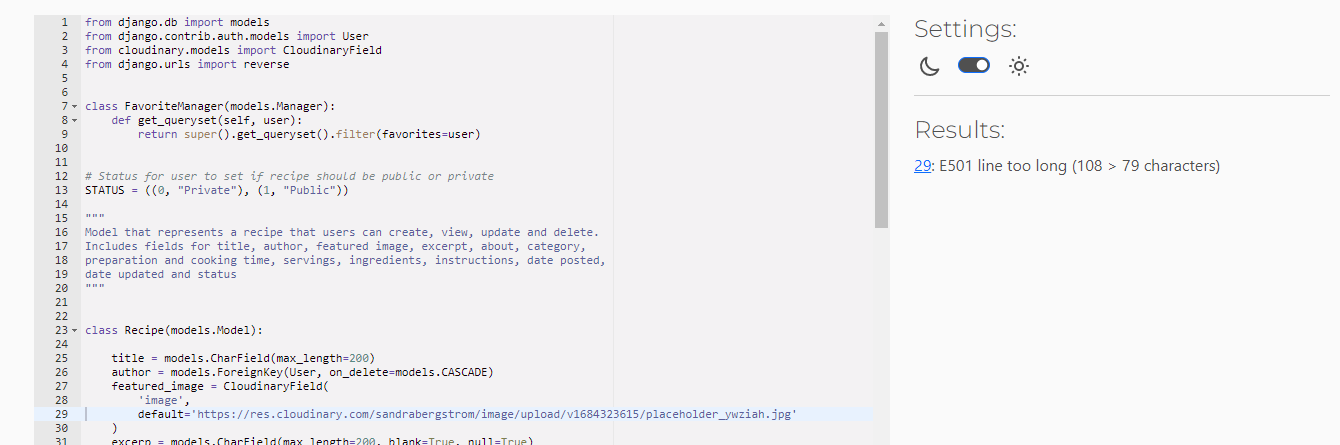
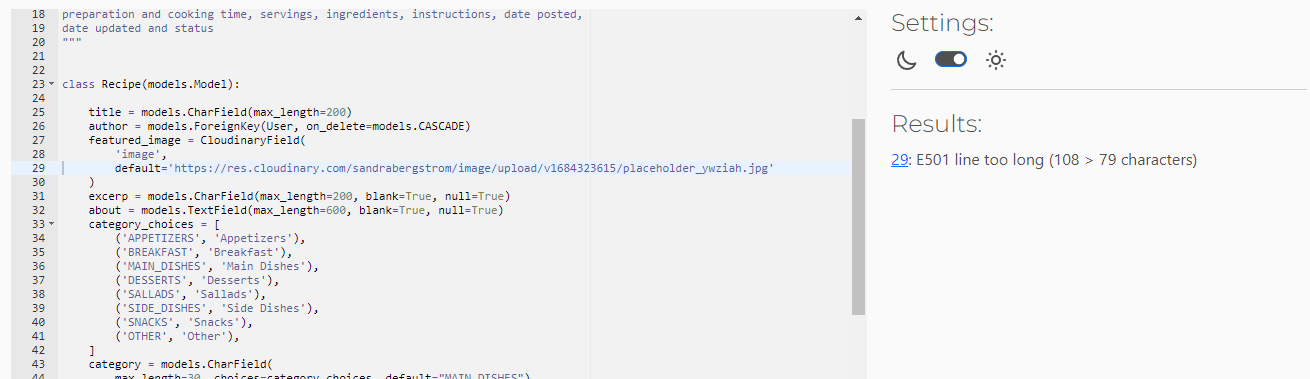
Test PEP8

Changed region(s): [[0.0, 0.029, 0.6107, 1.0], [0.6412, 0.029, 0.916, 0.8417]]

diff --git a/users/views.py b/users/views.py
@@ -1,4 +1,5 @@
-# Register view and profile view is based on the "Python Django Tutorial: Full-Featured Web App" tutorial by Corey Schafer
+# Register view and profile view is based on the
+# "Python Django Tutorial: Full-Featured Web App" tutorial by Corey Schafer
 # Tutorial: https://youtu.be/UmljXZIypDc
 # Snippets adapted from the tutorial with modifications
 
@@ -11,6 +12,7 @@ from django.db.models import Q
 from .forms import UserRegisterForm, UserUpdateForm, ProfileUpdateForm
 from cookbook.models import Recipe
 
+
 # registtration view for new user
 def register(request):
     if request.method == 'POST':
@@ -19,9 +21,10 @@ def register(request):
             form.save()
             username = form.cleaned_data.get('username')
             messages.success(
-                request, 
-                f'Welcome { username }! Your account was successfully created! Please log in!'
-                )
+                request,
+                f'Welcome { username }! Your account was successfully '
+                f'/created! Please log in!'
+            )
             return redirect('login')
     else:
         form = UserRegisterForm()
@@ -33,16 +36,17 @@ def register(request):
 def profile(request):
     if request.method == 'POST':
         user_form = UserUpdateForm(request.POST, instance=request.user)
-        profile_form = ProfileUpdateForm(request.POST, request.FILES, instance=request.user.profile)
+        profile_form = ProfileUpdateForm(
+            request.POST, request.FILES, instance=request.user.profile)
 
         if user_form.is_valid() and profile_form.is_valid():
             user_form.save()
             profile_form.save()
 
             messages.success(
-                request, 
+                request,
                 f'Your account has been successfully updated!'
-                )
+            )
             return redirect('profile')
     else:
         user_form = UserUpdateForm(instance=request.user)
@@ -51,13 +55,13 @@ def profile(request):
     context = {
         'user_form': user_form,
         'profile_form': profile_form
-        
+
     }
     return render(request, 'users/profile.html', context)
 
 
-# view to filter favorite field to see if user id is there or not. If 
-# the user id is there the user can remove from its favorites. If the 
+# view to filter favorite field to see if user id is there or not. If
+# the user id is there the user can remove from its favorites. If the
 # user id isn't there the user can add to favorites.
 @login_required
 def favorite_add(request, id):
@@ -65,17 +69,17 @@ def favorite_add(request, id):
     if recipe.favorites.filter(id=request.user.id).exists():
         recipe.favorites.remove(request.user)
 
-        messages.warning (
-                request, 
-                f'This recipe was removed from your favorites!'
-                )
+        messages.warning(
+            request,
+            f'This recipe was removed from your favorites!'
+        )
     else:
         recipe.favorites.add(request.user)
 
         messages.success(
-                request, 
-                f'This recipe was added to your favorites!'
-                )
+            request,
+            f'This recipe was added to your favorites!'
+        )
     # redirect to the current page
     return redirect(request.META.get('HTTP_REFERER'))
 
@@ -87,6 +91,7 @@ def favorite_list(request):
     return render(request, 'users/favorites.html', {'new': new})
 
 
+# view for the users added recipes
 @login_required
 def my_recipe_list(request):
     added = Recipe.objects.filter(author=request.user).order_by('-date_posted')
@@ -94,11 +99,3 @@ def my_recipe_list(request):
         'added': added
     }
     return render(request, 'users/myrecipes.html', context)
-
-
-# class MyRecipeListView(LoginRequiredMixin, ListView):
-#     model = Recipe
-#     template_name = 'users/myrecipes.html'
-#     context_object_name = 'added'
-#     ordering = ['-date_posted']
-#     paginate_by = 9

diff --git a/cookbook/views.py b/cookbook/views.py
@@ -1,4 +1,5 @@
-# Based on the "Python Django Tutorial: Full-Featured Web App" tutorial by Corey Schafer
+# Based on the "Python Django Tutorial: Full-Featured Web App"
+# by Corey Schafer
 # Tutorial: https://youtu.be/UmljXZIypDc
 # Snippet adapted from the tutorial with modifications
 
@@ -18,11 +19,13 @@ from django.views.generic import (
 from django.contrib.auth.mixins import LoginRequiredMixin, UserPassesTestMixin
 from django.db.models import Q
 
+
 def index(request):
     if request.user.is_authenticated:
-        return redirect ('cookbook-home')
+        return redirect('cookbook-home')
     else:
         return render(request, 'index.html')
+
 
 # this class will list all recipes with the latest
 # recipe listed first
@@ -87,8 +90,9 @@ class RecipeCreateView(LoginRequiredMixin, CreateView):
         'status',
     ]
 
-    # If the form is valid it will first check if user is logged in and if so
-    # the user will be set as the author. If not it will redirect to the login page.
+    # If the form is valid it will first check if user is logged in
+    # and if so the user will be set as the author. If not it will
+    # redirect to the login page.
     def form_valid(self, form):
         if self.request.user.is_authenticated:
             form.instance.author = self.request.user
@@ -117,13 +121,14 @@ class RecipeUpdateView(LoginRequiredMixin, UserPassesTestMixin, UpdateView):
     ]
 
     # If the form is valid it will first check if user is logged in and if so
-    # the user will be set as the author. If not it will redirect to the login page.
+    # the user will be set as the author. If not it will redirect to
+    # the login page.
     def form_valid(self, form):
         if self.request.user.is_authenticated:
             form.instance.author = self.request.user
             title = form.instance.title
             messages.success(
-                self.request, 
+                self.request,
                 f'{ title } has been successfully updated!'
                 )
             return super().form_valid(form)
@@ -152,9 +157,8 @@ class RecipeDeleteView(LoginRequiredMixin, UserPassesTestMixin, DeleteView):
             return True
         return False
 
-# Shows the about page 
+
+# Shows the about page
 class AboutView(TemplateView):
     template_name = 'cookbook/about.html'
     extra_content = {'title': 'About'}
-
-    

diff --git a/users/models.py b/users/models.py
@@ -4,17 +4,18 @@ from cloudinary.models import CloudinaryField
 from cookbook.models import Recipe
 
 
-
 """
 Model that extends the user model and adds fields image,
 food relation and country.
 """
+
+
 class Profile(models.Model):
     user = models.OneToOneField(User, on_delete=models.CASCADE)
     image = CloudinaryField(
-        'image', 
+        'image',
         default='https://res.cloudinary.com/sandrabergstrom/image/upload/v1684322604/user_zyrx8b.png'
-        )
+    )
     food_relation_choices = [
         ('CHEF', 'Chef'),
         ('NUTRITIONIST', 'Nutritionist'),
@@ -26,22 +27,23 @@ class Profile(models.Model):
         ('OTHER', 'Other'),
     ]
     food_relation = models.CharField(
-        max_length=30, 
-        choices=food_relation_choices, 
+        max_length=30,
+        choices=food_relation_choices,
         default='HOME_COOK'
-        )
+    )
     country = models.CharField(
-        max_length=200, 
+        max_length=200,
         default='Citizen of the world'
-        )
+    )
 
     def __str__(self):
-        return f'{self.user.first_name} {self.user.last_name}, {self.get_food_relation_display()}'
+        return f'{self.user.first_name} {self.user.last_name}, ' \
+           f'{self.get_food_relation_display()}'
 
 
 class Comment(models.Model):
     recipe = models.ForeignKey(Recipe, on_delete=models.CASCADE,
-                             related_name="comments")
+                               related_name="comments")
     name = models.CharField(max_length=80)
     email = models.EmailField()
     body = models.TextField()

diff --git a/users/forms.py b/users/forms.py
@@ -1,4 +1,5 @@
-# Based on the "Python Django Tutorial: Full-Featured Web App" tutorial by Corey Schafer
+# Based on the "Python Django Tutorial: Full-Featured Web App"
+# by Corey Schafer
 # Tutorial: https://youtu.be/UmljXZIypDc
 # Snippet adapted from the tutorial with modifications
 
@@ -15,7 +16,14 @@ class UserRegisterForm(UserCreationForm):
 
     class Meta:
         model = User
-        fields = ['username','first_name', 'last_name', 'email', 'password1', 'password2']
+        fields = [
+            'username',
+            'first_name',
+            'last_name',
+            'email',
+            'password1',
+            'password2'
+            ]
 
 
 # update form that user finds on profile page
@@ -24,7 +32,7 @@ class UserUpdateForm(forms.ModelForm):
 
     class Meta:
         model = User
-        fields = ['username','first_name', 'last_name', 'email']
+        fields = ['username', 'first_name', 'last_name', 'email']
 
 
 # extended update form on profile page
@@ -32,7 +40,7 @@ class ProfileUpdateForm(forms.ModelForm):
     class Meta:
         model = Profile
         fields = ['image', 'food_relation', 'country']
-        
+
 
 class CommentForm(forms.ModelForm):
     class Meta:

diff --git a/users/signals.py b/users/signals.py
@@ -3,6 +3,7 @@ from django.contrib.auth.models import User
 from django.dispatch import receiver
 from .models import Profile
 
+
 # creates a new profile when user is created
 @receiver(post_save, sender=User)
 def create_profile(sender, instance, created, **kwargs):
@@ -13,4 +14,4 @@ def create_profile(sender, instance, created, **kwargs):
 # saves the connected profile when user is saved
 @receiver(post_save, sender=User)
 def save_profile(sender, instance, **kwargs):
-   instance.profile.save()
+    instance.profile.save()

diff --git a/recipecollective/settings.py b/recipecollective/settings.py
@@ -81,20 +81,8 @@ TEMPLATES = [
 
 WSGI_APPLICATION = 'recipecollective.wsgi.application'
 
-
-# Database
-# https://docs.djangoproject.com/en/3.2/ref/settings/#databases
-
-# DATABASES = {
-#     'default': {
-#         'ENGINE': 'django.db.backends.sqlite3',
-#         'NAME': BASE_DIR / 'db.sqlite3',
-#     }
-# }
-
-
 DATABASES = {
-   'default': 
+   'default':
    dj_database_url.parse(os.environ.get("DATABASE_URL"))
 }
 

diff --git a/README.md b/README.md
@@ -333,7 +333,8 @@ Delete recipe
 ### Validation
 
 #### HTML Validation
-The W3C Markup Validation Service was used to validate the HTML of the website. All pages pass with no errors no warnings to show.
+W3C Markup Validation is a service provided by the W3C that allows you to validate your HTML code against the official specifications. It checks for syntax errors, improper tag usage, and other issues that may affect the structure and semantics of your web pages. Validating your HTML code with W3C Markup Validation helps ensure that your pages are well-formed and adhere to web standards
+
 <details><summary>Index</summary>
 <img src="#">
 </details>
@@ -357,7 +358,7 @@ The W3C Markup Validation Service was used to validate the HTML of the website. 
 </details>
 
 #### CSS Validation
-The W3C Jigsaw CSS Validation Service was used to validate the CSS of the website.
+W3C Jigsaw is a tool provided by the World Wide Web Consortium (W3C) that allows you to validate and check the correctness of your HTML and CSS code. It helps ensure that your web pages comply with the standards set by the W3C, promoting interoperability and accessibility.
 
 | **Tested** | **Result** | **Validation Result** |
 | ----------- | ----------- | ----------- |
@@ -366,11 +367,23 @@ The W3C Jigsaw CSS Validation Service was used to validate the CSS of the websit
 |||
 
 #### PEP8 
+PEP 8 is a style guide for writing Python code to ensure consistency and readability. It provides guidelines on how to format code, naming conventions for variables and functions, and other best practices. Following PEP 8 helps to improve code quality, readability, and maintainability.
+
+The settings file had one URL that was too long, while the other lines exceeding the recommended length were automatically generated by Django.All other files had no errors and were clear of any issues.
+
+Note: The specific details and validation results for each file can be viewed by expanding the corresponding sections.
 
 
 | **Tested** | **Result** | **Validation Result** |
 | ----------- | ----------- | ----------- |
+| settings | One URL was too long, while the other lines that exceeded the recommended length were automatically generated by Django. |<details><summary>Result</summary>![Result](/docs/validation/pep8/settings.png)</details>|
+| views | All clear, no errors found |<details><summary>Result</summary>![Result](/docs/validation/pep8/views.png)</details>|
 |cookbook/models | 29: E501 line too long (108 > 79 characters) - URL for default image |<details><summary>Result</summary>![Result](/docs/validation/pep8/cookbook-models.png)</details>|
+|cookbook/views | All clear, no errors found |<details><summary>Result</summary>![Result](/docs/validation/pep8/cookbook-views.png)</details>|
+|users/forms | All clear, no errors found |<details><summary>Result</summary>![Result](/docs/validation/pep8/users-forms.png)</details>|
+|users/models | One line too long because of URL |<details><summary>Result</summary>![Result](/docs/validation/pep8/users-models.png)</details>|
+|users/signals | All clear, no errors found |<details><summary>Result</summary>![Result](/docs/validation/pep8/users-signals.png)</details>|
+|users/viiews | All clear, no errors found |<details><summary>Result</summary>![Result](/docs/validation/pep8/users-viewss.png)</details>|
 |||
 
 
